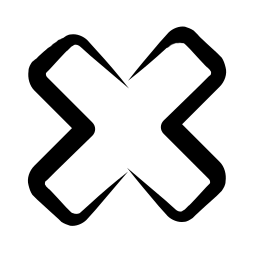
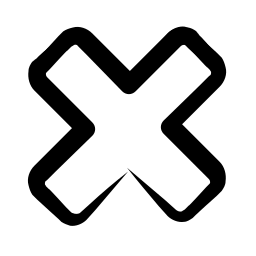
improved close and wiki buttons

diff --git a/ImagoApp/ImagoApp/Views/CustomControls/SkillGroupDetailView.xaml b/ImagoApp/ImagoApp/Views/CustomControls/SkillGroupDetailView.xaml
@@ -33,10 +33,17 @@
                 <Label Margin="5,5,0,0" FontAttributes="Bold"
                    FontSize="{DynamicResource FontSizeSmallCaption}"
                    Text="{Binding SkillGroupDetailViewModel.SkillGroupModel.Type, Converter={StaticResource EnumToDisplayTextConverter}}" />
-                <Button Margin="20,8,0,0" Padding="7,3" Background="limegreen"
-                   Command="{Binding SkillGroupDetailViewModel.OpenWikiCommand}"
-                   FontSize="{DynamicResource FontSizeBigContent}"
-                   Text="Wiki &#8599;" VerticalOptions="Center" />
+
+
+                <customControls:ImageButtonView  VerticalOptions="Center"  Margin="15,0,0,0"
+                                                 ImageSource="Images/wiki.png"
+                                                 ImageMargin="7,9,7,7"
+                                                 TextHidden="True"  
+                                                 ImageSize="33"  HorizontalOptions="End"
+                                                 Command="{Binding SkillGroupDetailViewModel.OpenWikiCommand}"/>
+
+
+
             </StackLayout>
 
 
@@ -102,12 +109,12 @@
                 </Label>
             </StackLayout>
 
-            <Button Grid.Row="0" Grid.RowSpan="3" Grid.Column="4"
-               Padding="0,-4,0,0" BackgroundColor="LightGray"
-               Command="{Binding SkillGroupDetailViewModel.CloseCommand}"
-               FontSize="{DynamicResource FontSizeHeader}"
-               HeightRequest="35" HorizontalOptions="End" Text="X"
-               TextColor="Red" VerticalOptions="Start" WidthRequest="35" />
+            <customControls:ImageButtonView Grid.Column="4"  Grid.Row="0" Grid.RowSpan="3"   VerticalOptions="Start" Margin="5,0,0,0"
+                                             ImageSource="Images/schliessen.png"
+                                             ImageMargin="7,9,7,7"
+                                             TextHidden="True"  
+                                             ImageSize="33"  HorizontalOptions="End"
+                                             Command="{Binding SkillGroupDetailViewModel.CloseCommand}"/>
         </Grid>
 
         <WebView Grid.Row="1" Grid.Column="0" Grid.ColumnSpan="2"

diff --git a/ImagoApp/ImagoApp/Views/CustomControls/SkillDetailView.xaml b/ImagoApp/ImagoApp/Views/CustomControls/SkillDetailView.xaml
@@ -108,10 +108,13 @@
                    FontSize="{DynamicResource FontSizeSmallCaption}"
                    Text="{Binding SkillModel.Type, Converter={StaticResource EnumToDisplayTextConverter}}"
                    VerticalOptions="Center" />
-                <Button Margin="20,5,0,0" Padding="7,3" Background="limegreen"
-                   Command="{Binding OpenWikiCommand}"
-                   FontSize="{DynamicResource FontSizeBigContent}"
-                   Text="Wiki &#8599;" VerticalOptions="Center" />
+
+                <customControls:ImageButtonView  VerticalOptions="Center"  Margin="15,0,0,0"
+                                                 ImageSource="Images/wiki.png"
+                                                 ImageMargin="7,9,7,7"
+                                                 TextHidden="True"  
+                                                 ImageSize="33"  HorizontalOptions="End"
+                                                 Command="{Binding OpenWikiCommand}"/>
             </StackLayout>
 
             <Label Grid.Row="1" Grid.Column="0" Margin="15,0,0,0"
@@ -213,12 +216,12 @@
                    VerticalOptions="Center" />
             </StackLayout>
 
-            <Button Grid.Row="0" Grid.Column="3" Padding="0,-4,0,0"
-               BackgroundColor="LightGray"
-               Command="{Binding CloseCommand}"
-               FontSize="{DynamicResource FontSizeHeader}"
-               HeightRequest="35" HorizontalOptions="End" Text="X"
-               TextColor="Red" VerticalOptions="Start" WidthRequest="35" />
+            <customControls:ImageButtonView  Grid.Row="0" Grid.Column="3"  VerticalOptions="Start" Margin="5,0,0,0"
+                                             ImageSource="Images/schliessen.png"
+                                             ImageMargin="7,9,7,7"
+                                             TextHidden="True"  
+                                             ImageSize="33"  HorizontalOptions="End"
+                                             Command="{Binding CloseCommand}"/>
         </Grid>
 
         <WebView Grid.Row="1" Grid.Column="1" Navigating="WebView_OnNavigating"

diff --git a/ImagoApp/ImagoApp/Views/CustomControls/WeaponDetailView.xaml b/ImagoApp/ImagoApp/Views/CustomControls/WeaponDetailView.xaml
@@ -1,6 +1,8 @@
 <?xml version="1.0" encoding="UTF-8" ?>
 <ContentView x:Class="ImagoApp.Views.CustomControls.WeaponDetailView" xmlns="http://xamarin.com/schemas/2014/forms" xmlns:x="http://schemas.microsoft.com/winfx/2009/xaml"
-   xmlns:models="clr-namespace:ImagoApp.Application.Models;assembly=ImagoApp.Application" x:Name="WeaponViewControl">
+   xmlns:models="clr-namespace:ImagoApp.Application.Models;assembly=ImagoApp.Application"
+   xmlns:customControls="clr-namespace:ImagoApp.Views.CustomControls;assembly=ImagoApp"
+   x:Name="WeaponViewControl">
     <ContentView.Resources>
         <DataTemplate x:Key="WeaponStanceListViewItemTemplate" x:DataType="models:WeaponStanceModel">
             <Grid Padding="10,4">
@@ -54,13 +56,13 @@
                 <RowDefinition Height="Auto" />
                 <RowDefinition Height="*" />
             </Grid.RowDefinitions>
-
-            <Button Grid.Row="0" Grid.Column="1" Padding="0,-4,0,0"
-               BackgroundColor="LightGray"
-               Command="{Binding WeaponDetailViewModel.CloseCommand, Source={x:Reference WeaponViewControl}}"
-               FontSize="{DynamicResource FontSizeHeader}"
-               HeightRequest="35" HorizontalOptions="End" Text="X"
-               TextColor="Red" VerticalOptions="Start" WidthRequest="35" />
+       
+            <customControls:ImageButtonView Grid.Row="0" Grid.Column="1"   VerticalOptions="Start" Margin="5,0,0,0"
+                                            ImageSource="Images/schliessen.png"
+                                            ImageMargin="7,9,7,7"
+                                            TextHidden="True"  
+                                            ImageSize="33"  HorizontalOptions="End"
+                                            Command="{Binding WeaponDetailViewModel.CloseCommand, Source={x:Reference WeaponViewControl}}"/>
 
             <StackLayout Grid.Row="0" Grid.Column="0" Orientation="Horizontal">
                 <Entry FontAttributes="Bold"

diff --git a/ImagoApp/ImagoApp/Views/CustomControls/AttributeExperienceDialogView.xaml b/ImagoApp/ImagoApp/Views/CustomControls/AttributeExperienceDialogView.xaml
@@ -32,12 +32,12 @@
                    Text="offene Erfahrungspunkte auf Attribute verteilen" />
             </StackLayout>
 
-            <Button Grid.Row="0" Grid.Column="6" Padding="0,-4,0,0"
-               BackgroundColor="LightGray"
-               Command="{Binding CloseCommand, Source={x:Reference AttributeExperienceDialogViewControl}}"
-               FontSize="{DynamicResource FontSizeHeader}"
-               HeightRequest="35" HorizontalOptions="End" Text="X"
-               TextColor="Red" VerticalOptions="Start" WidthRequest="35" />
+            <customControls:ImageButtonView Grid.Row="0" Grid.Column="6"   VerticalOptions="Start" Margin="5,0,0,0"
+                                            ImageSource="Images/schliessen.png"
+                                            ImageMargin="7,9,7,7"
+                                            TextHidden="True"  
+                                            ImageSize="33"  HorizontalOptions="End"
+                                            Command="{Binding CloseCommand, Source={x:Reference AttributeExperienceDialogViewControl}}"/>
 
             <Frame Grid.Row="1" Grid.Column="0" Grid.ColumnSpan="7">
                 <ScrollView>

diff --git a/ImagoApp/ImagoApp/Views/StatusPage.xaml b/ImagoApp/ImagoApp/Views/StatusPage.xaml
@@ -202,7 +202,7 @@
                 </Frame>
 
                 <!--  healing  -->
-                <Grid Grid.Row="1" Grid.Column="1" HorizontalOptions="Start" VerticalOptions="Start">
+                <Grid Grid.Row="1" Grid.Column="1" HorizontalOptions="Start" Margin="20" VerticalOptions="Start">
                     <Grid.ColumnDefinitions>
                         <ColumnDefinition Width="Auto"></ColumnDefinition>
                         <ColumnDefinition Width="Auto"></ColumnDefinition>
@@ -219,7 +219,7 @@
                                         Text="Behandung">
                     </cc:ImageButtonView>
               
-                    <cc:ImageButtonView Grid.Row="0" Grid.Column="1" ImageSource="Images/heilung.png" 
+                    <cc:ImageButtonView Grid.Row="0" Margin="15,0,0,0" Grid.Column="1" ImageSource="Images/heilung.png" 
                                         HorizontalOptions="End" VerticalOptions="Start"
                                         Command="{Binding OpenHealingCommand}"
                                         Text="Heilung">
